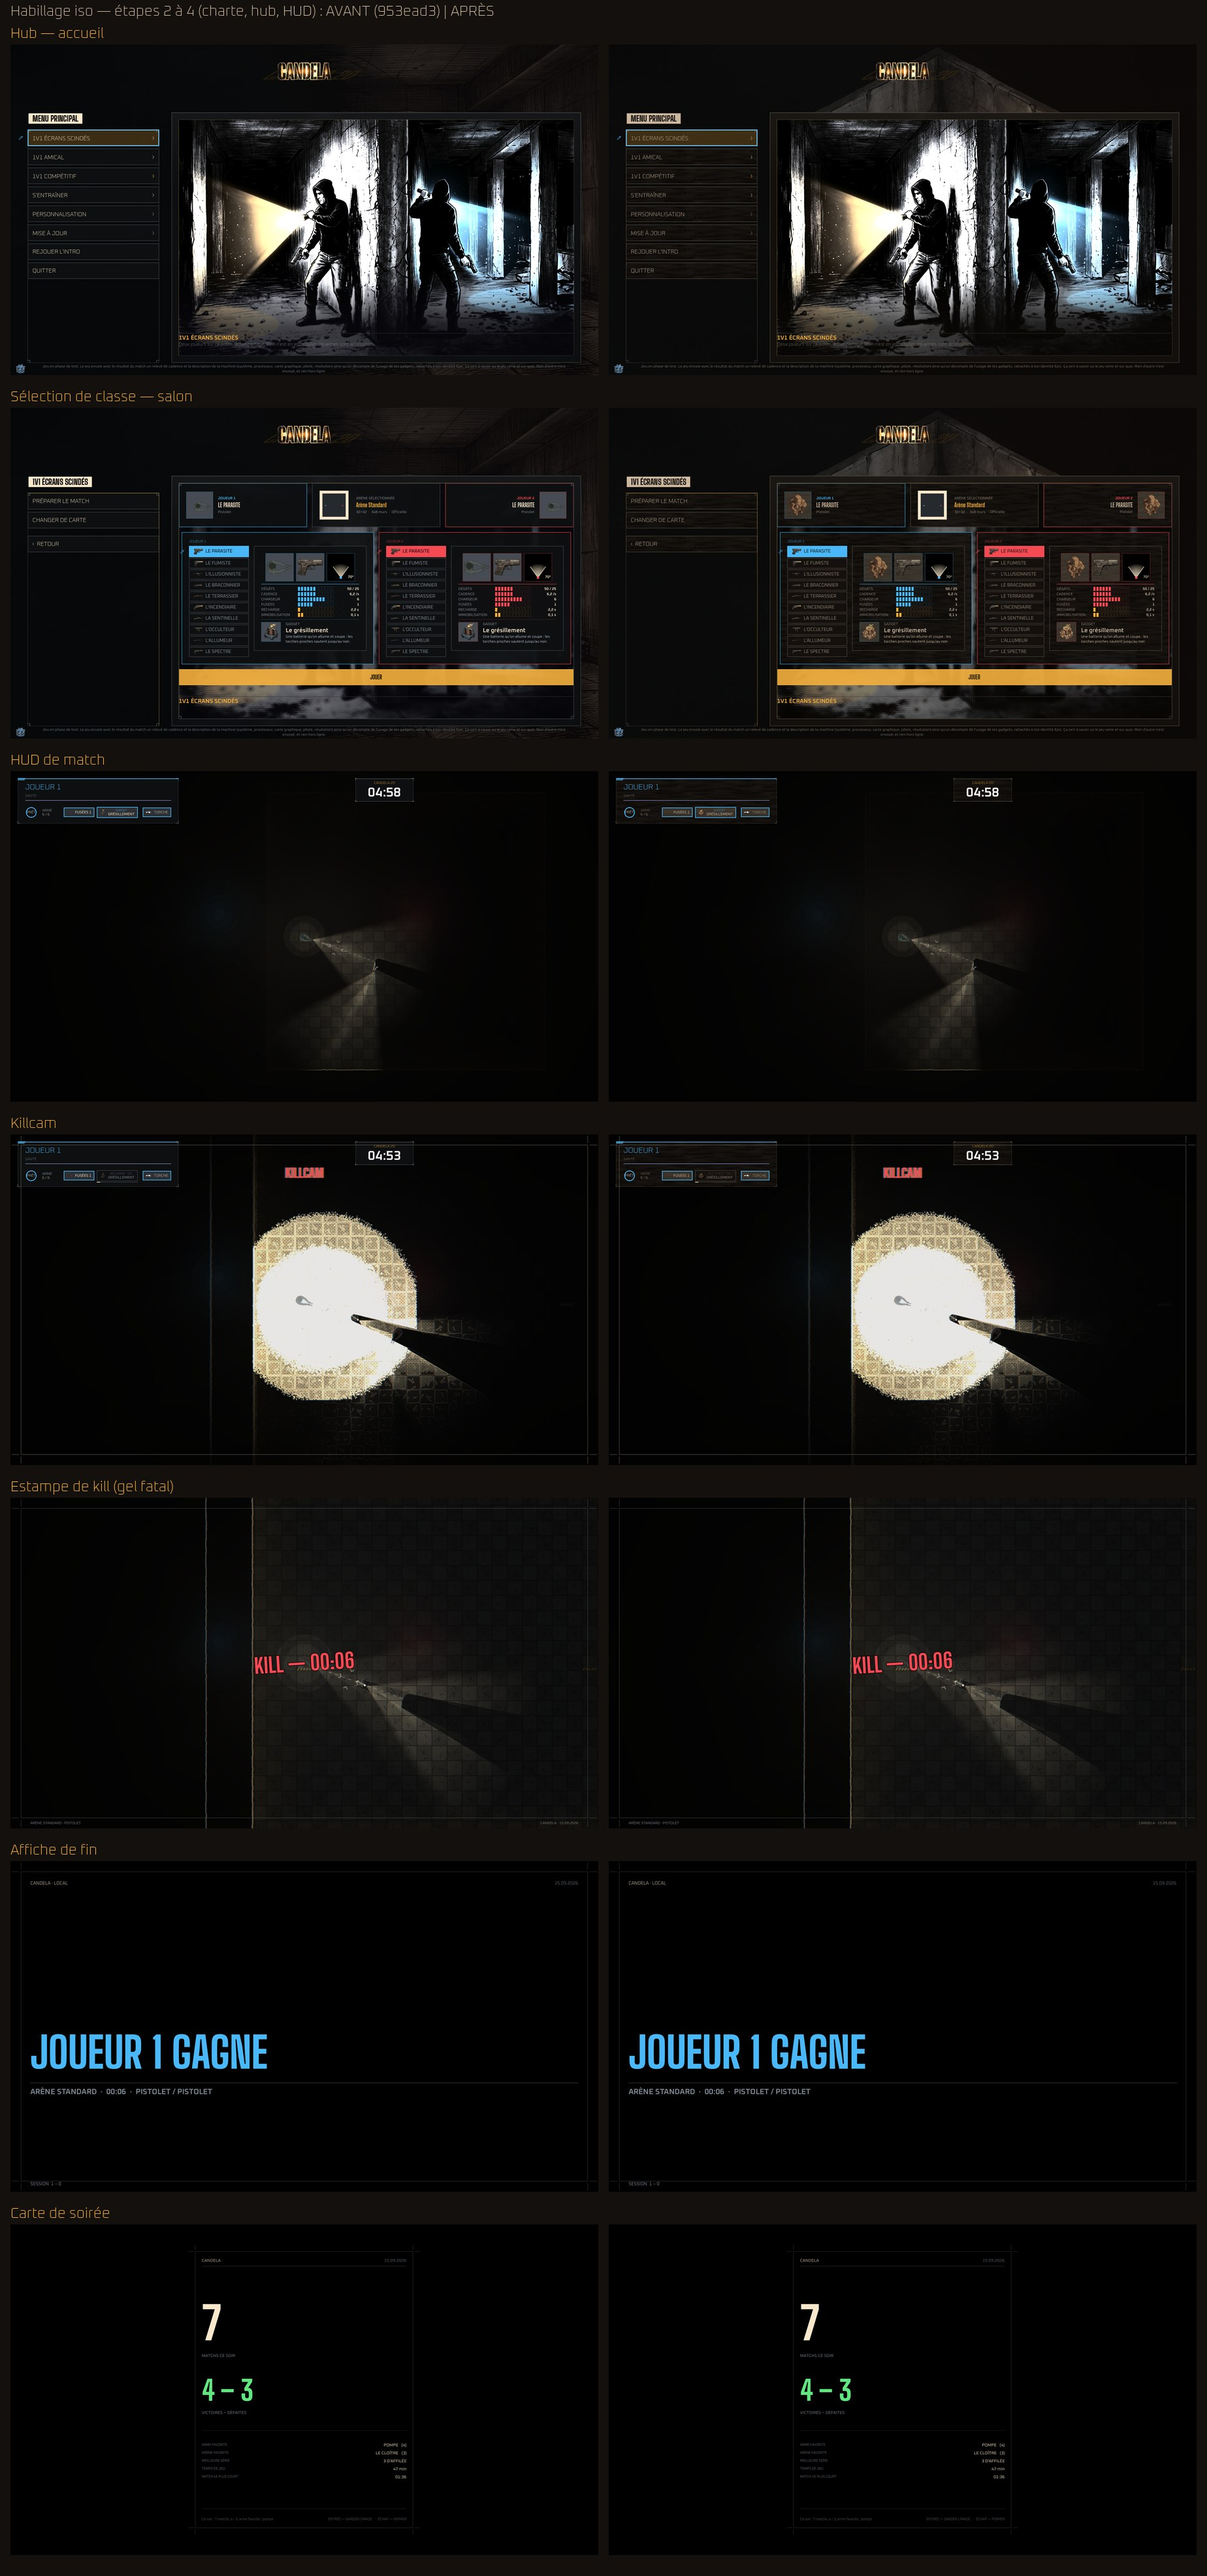
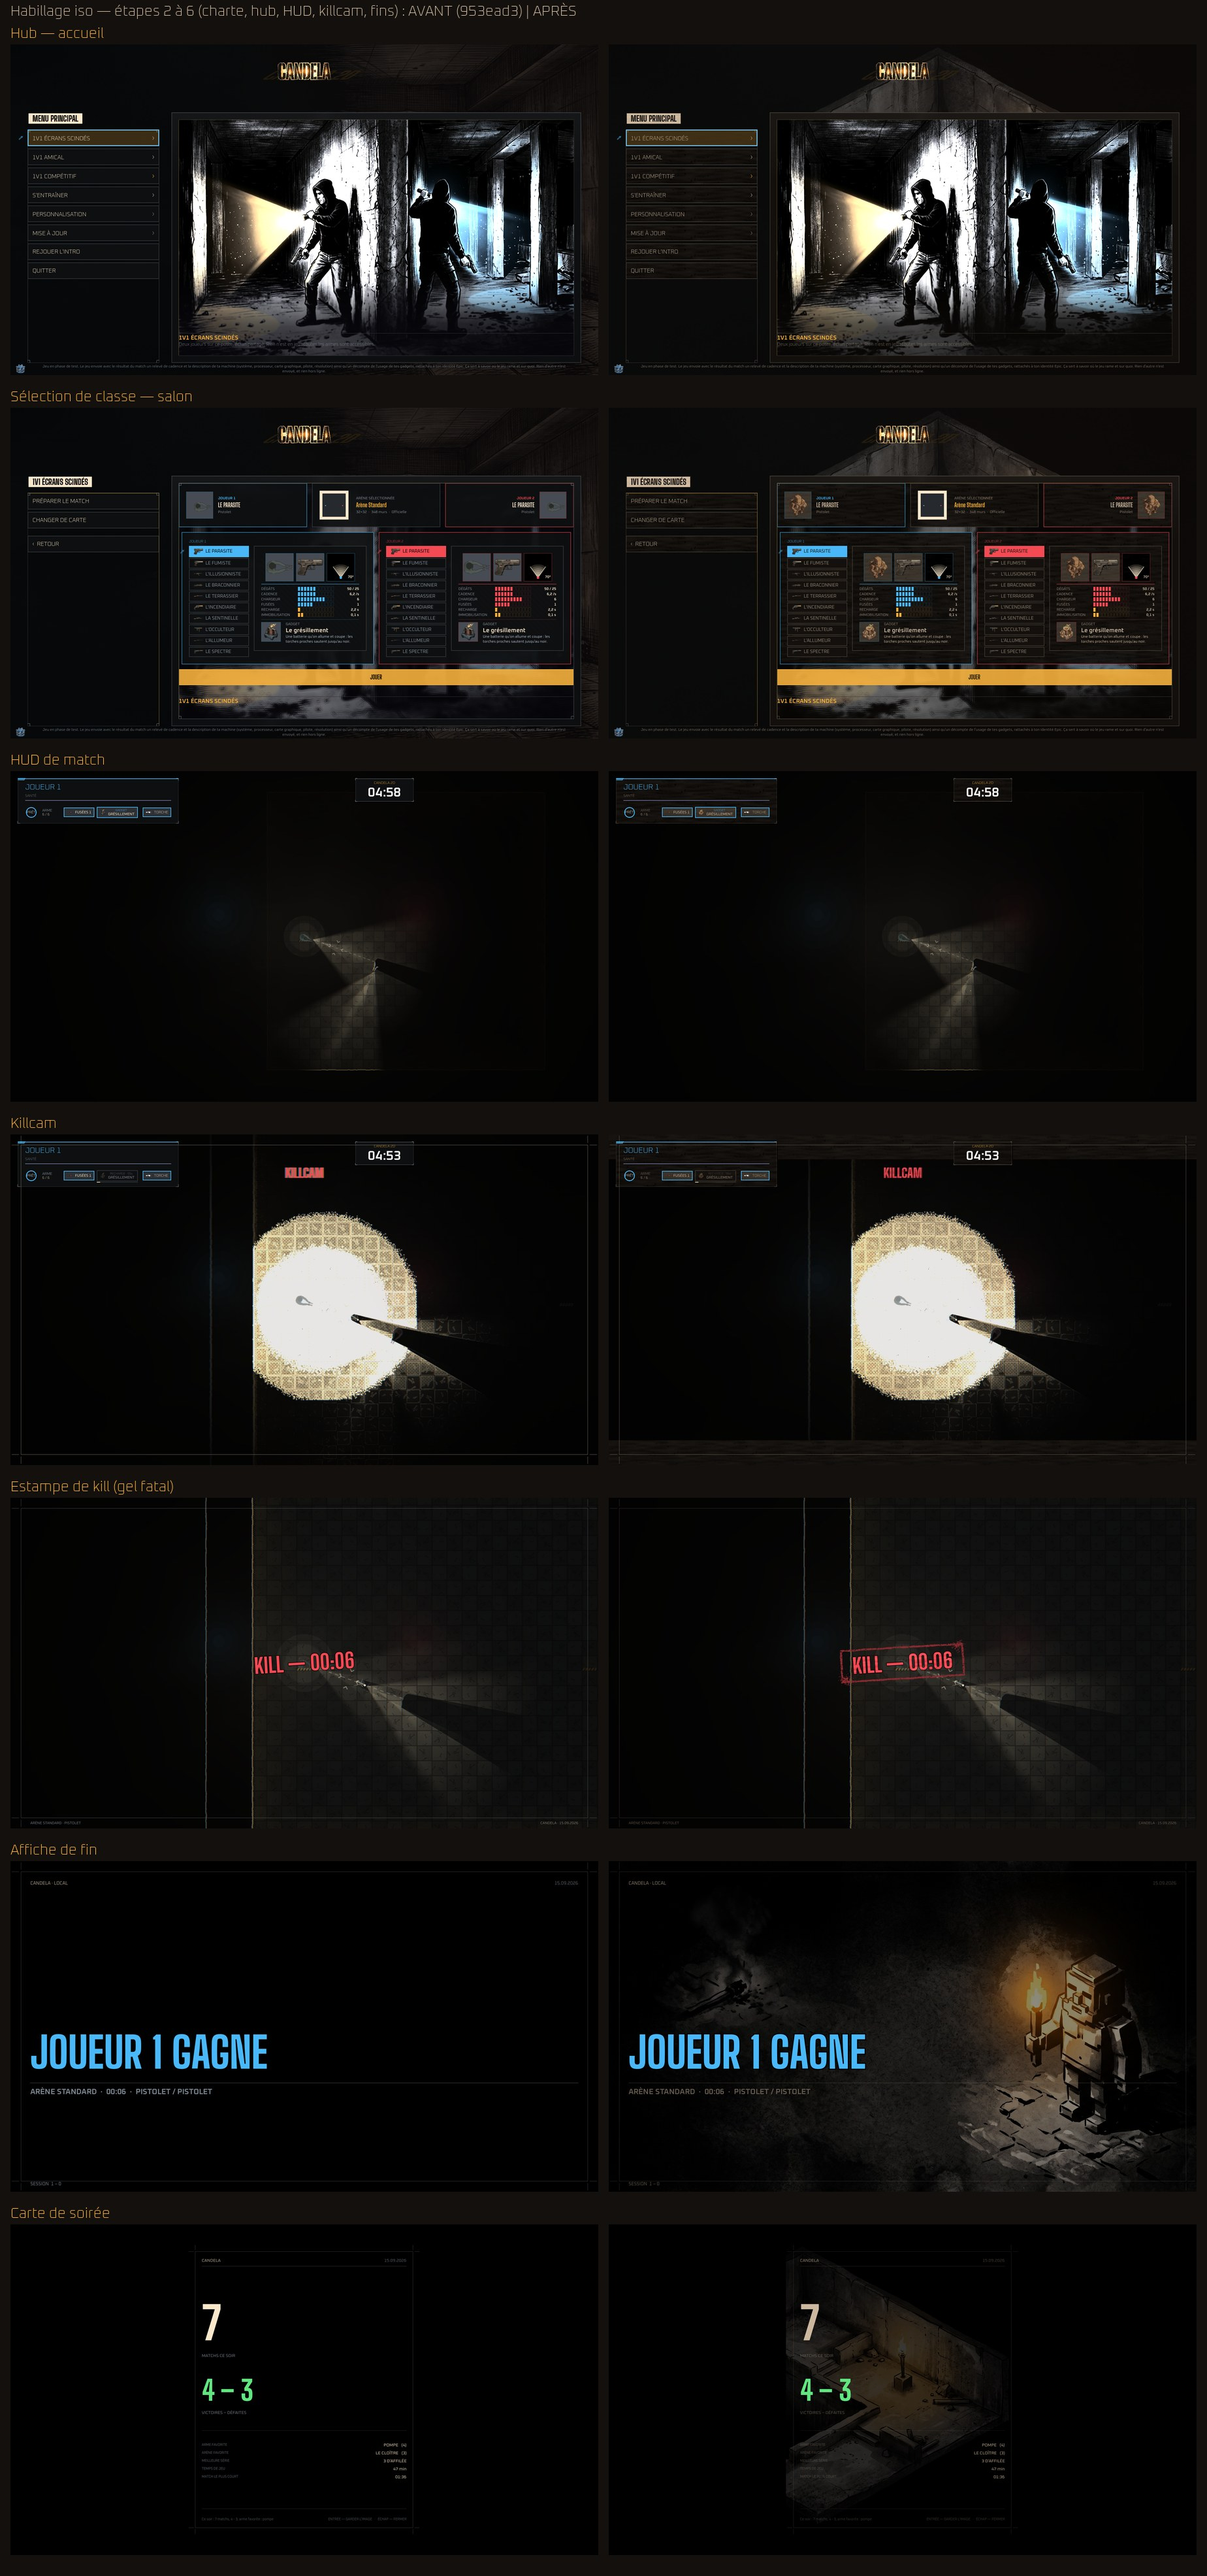
Habillage — fins : illustrations iso, verdicts tamponnés, intro à la charte
Étape 6 du chantier Habillage iso.

L'affiche de fin pose sous son mot l'illustration du lot D d'ISO Assets,
recadrée dans son encre, retournée pour que le mot tombe sur l'ombre, à 55 %,
choisie d'après le mot LU (défaite, victoire ; l'égalité garde son noir). La
carte de soirée remplit son emplacement câblé et vide depuis DA6.3 avec un
recadrage 4:5 du bunker du hub.

Les verdicts cessent d'être trois lettrages dorés générés : le titre lui-même,
en enseigne avec le pochoir, à la couleur que show_game_over() lui donne.
Les fichiers restent sur disque, leur suppression revient à Adrien.

L'intro garde son texte et prend la charte : tailles de l'échelle, graisse
d'enseigne, cartouche en encre et ambre de la charte avec la pâte.

Preuves : test_habillage (illustration selon le mot, retournée, absente à
l'égalité ; fichiers de fin sans neutre d'appareil ni couleur chiffrée ;
ressources connues de git) ; captures avant/après ; lot complet vert.

Changed region(s): [[0.6786, 0.7489, 0.9562, 0.8737], [0.6477, 0.8737, 0.8019, 0.9673], [0.586, 0.7489, 0.6477, 0.8113]]

diff --git a/tools/preparer_habillage.py b/tools/preparer_habillage.py
@@ -126,12 +126,72 @@ def sujet(source, sortie, cote):
     print(f"{source} -> {sortie} {cote}x{cote}")
 
 
+def fin(source, sortie):
+    """Illustration de fin : la source est un lavis posé sur une feuille, avec un
+    bord de papier clair tout autour. Plein écran sur un jeu noir, ce bord ferait
+    un cadre blanc criard : on recadre À L'INTÉRIEUR de l'encre, mesurée — la
+    première et la dernière ligne/colonne dont la médiane de luminance tombe sous
+    le papier —, puis 2 % de retrait pour ne garder aucun liseré déchiré."""
+    im = Image.open(source).convert("RGB")
+    l, h = im.size
+    gris = im.convert("L")
+    p = gris.load()
+
+    def mediane(valeurs):
+        v = sorted(valeurs)
+        return v[len(v) // 2]
+
+    seuil = 150
+    colonnes = [mediane([p[x, y] for y in range(0, h, 9)]) for x in range(l)]
+    lignes = [mediane([p[x, y] for x in range(0, l, 9)]) for y in range(h)]
+    x0 = next(x for x in range(l) if colonnes[x] < seuil)
+    x1 = next(x for x in range(l - 1, -1, -1) if colonnes[x] < seuil)
+    y0 = next(y for y in range(h) if lignes[y] < seuil)
+    y1 = next(y for y in range(h - 1, -1, -1) if lignes[y] < seuil)
+    rx, ry = int((x1 - x0) * 0.02), int((y1 - y0) * 0.02)
+    x0, x1, y0, y1 = x0 + rx, x1 - rx, y0 + ry, y1 - ry
+    print(f"  encre mesurée ({x0}, {y0}) – ({x1}, {y1}) dans {l}x{h}")
+    im = im.crop((x0, y0, x1, y1))
+    # 16:9 par recadrage centré, jamais par étirement.
+    cl, ch = im.size
+    cible = 1920 / 1080
+    if cl / ch > cible:
+        nl = int(round(ch * cible))
+        im = im.crop(((cl - nl) // 2, 0, (cl - nl) // 2 + nl, ch))
+    else:
+        nh = int(round(cl / cible))
+        im = im.crop((0, (ch - nh) // 2, cl, (ch - nh) // 2 + nh))
+    im = im.resize((1920, 1080), Image.LANCZOS)
+    im.save(sortie, quality=90, optimize=True)
+    print(f"fin : {source} -> {sortie} 1920x1080")
+
+
+def carte(source, sortie):
+    """Fond de la carte de soirée (`carte_de_soiree.gd`, emplacement câblé et
+    vide depuis DA6.3) : un recadrage 4:5 du bunker du hub, CENTRÉ SUR SA TORCHE —
+    le point mesuré au pixel pour le POI de l'accueil (0,751 ; 0,354). La carte
+    le pose à 22 % : c'est une matière sous des chiffres, pas une image."""
+    im = Image.open(source).convert("RGB")
+    l, h = im.size
+    u = 0.751
+    cl = int(round(h * 0.8))
+    cx = int(round(u * l))
+    x0 = max(0, min(l - cl, cx - cl // 2))
+    im = im.crop((x0, 0, x0 + cl, h)).resize((1080, 1350), Image.LANCZOS)
+    im.save(sortie, optimize=True)
+    print(f"carte : {source} {l}x{h}, colonne x={x0}..{x0 + cl} -> {sortie} 1080x1350")
+
+
 def main():
     if len(sys.argv) != 4:
         raise SystemExit(__doc__)
     mode, source, sortie = sys.argv[1:]
     if mode == "fond":
         fond(source, sortie)
+    elif mode == "fin":
+        fin(source, sortie)
+    elif mode == "carte":
+        carte(source, sortie)
     elif mode == "portrait":
         sujet(source, sortie, 256)
     elif mode == "icone":

diff --git a/docs/ROADMAP.md b/docs/ROADMAP.md
@@ -23578,7 +23578,7 @@ scindé en iso ou maintenu en 2D — sur trois relevés au premier plan après
 ISO0.b. Puis les décisions de direction artistique (sommet des murs, tranche
 de plateau, palette des corps), le choix des corps (voxels par code
 recommandé), et la confirmation du forfait dans *Settings › Usage*.
-### Habillage iso — HUD, menus, killcam et fins dans la pâte du DA 🟡 (ouvert le 2026-09-15, vague « grand budget »)
+### Habillage iso — HUD, menus, killcam et fins dans la pâte du DA ✅ (ouvert et livré le 2026-09-15, vague « grand budget », à juger au jalon de test final)
 
 **D'où il vient.** Brief de la session cloud « Fable 5.1 - CLOUD ISO UNRAILED » (15/09, vers 05:25),
 sur le mandat d'Adrien de 05:00 : « une version grand budget aboutie en mode isométrique ».
@@ -23926,6 +23926,31 @@ tout passe, 403 s**. Le commit s'est fait sur ce second lot, jamais sur le premi
 
 **Décision.** Le pochoir est la seule matière qui passe SUR des lettres : un tampon ne prend
 jamais uniformément. Partout ailleurs, la pâte évite le texte (`empater()`).
+
+
+#### Étape 6 — les fins et l'intro ✅ (2026-09-15)
+
+**Ce qui est posé.**
+- **L'affiche de fin** pose l'illustration du lot D d'ISO Assets (`fin_victoire.jpg`,
+  `fin_defaite.jpg`, recadrées À L'INTÉRIEUR de leur encre par `tools/preparer_habillage.py` — le
+  bord de papier clair aurait fait un cadre blanc sur un jeu noir) en ENFANT du fond opaque, à
+  55 %. Elle suit le mot LU sur le titre du menu, jamais recalculé : défaite → la lampe tombée ;
+  victoire ou « JOUEUR n GAGNE » → la torche tenue ; égalité → le noir. **Retournée** : les planches
+  posent leur sujet éclairé à gauche, où l'affiche pose le mot ; en miroir, la gauche est l'ombre.
+- **La carte de soirée** remplit enfin son emplacement câblé et vide depuis DA6.3
+  (`carte_soiree_fond.png`) : un recadrage 4:5 du bunker du hub, centré sur sa torche mesurée,
+  posé à 22 % comme prévu. Aucune ligne de sa logique ne change ; ses couleurs passent à la pâte.
+- **Les verdicts ne sont plus des images.** Les trois lettrages dorés générés
+  (`titres/verdict_*.png`) cèdent la place au titre lui-même, en enseigne avec le pochoir, à la
+  couleur que `show_game_over()` lui donne (gris d'égalité compris). Les fichiers restent sur
+  disque : leur suppression est la décision d'Adrien, comme pour les titres.
+- **L'intro** garde son texte et prend la charte : lettrage en papier à `T_VERDICT` et à la graisse
+  d'enseigne de sa taille (il était à 46 px, fonte chargée sans graisse), indice à `T_COURANT`,
+  cartouche en encre et ambre de la charte avec la pâte, halo en halogène de la charte.
+
+**À juger au jalon.** L'affiche de fin cesse d'être un aplat noir : c'est le premier écran où une
+illustration générée occupe tout le cadre sous du texte. À 55 %, le mot se lit ; c'est la seule
+valeur de cette étape réglée à la capture plutôt que par un calcul.
 
 
 ## Chantier — murs bas et accroupi (inscrit le 2026-09-14)

diff --git a/docs/JOURNAL_SESSIONS.md b/docs/JOURNAL_SESSIONS.md
@@ -5093,3 +5093,9 @@ l'étape 2, sous le curseur CONFORT ; deux bandes de format cinéma montent sous
 visibilité du cadre de killcam ; le mot KILLCAM quitte la frange bleu/ambre d'un moniteur vidéo pour le
 mauvais repérage d'un tirage (encre, carmin) et prend le pochoir. L'estampe de kill garde sa forme jugée
 par Adrien et change de matière : pochoir, cadre d'encre projetée carmin fabriqué par script.
+
+**Étape 6 (même session, même branche) :** les fins et l'intro. L'affiche de fin pose sous son mot
+l'illustration du lot D d'ISO Assets, recadrée dans son encre, retournée pour que le mot tombe sur l'ombre ;
+la carte de soirée remplit son emplacement vide depuis DA6.3 ; les verdicts cessent d'être trois
+lettrages dorés générés pour devenir le titre lui-même, tamponné (les fichiers restent sur disque) ;
+l'intro prend la charte sans changer son texte.
